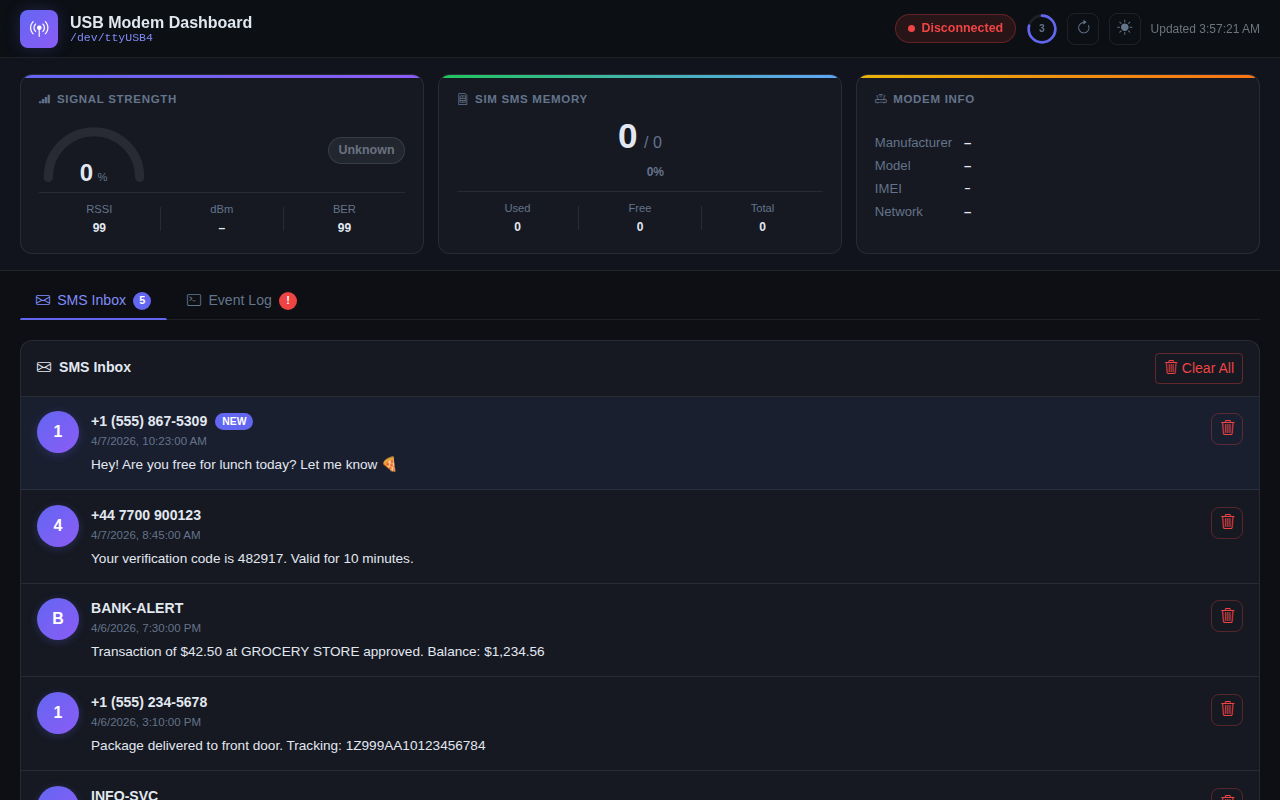
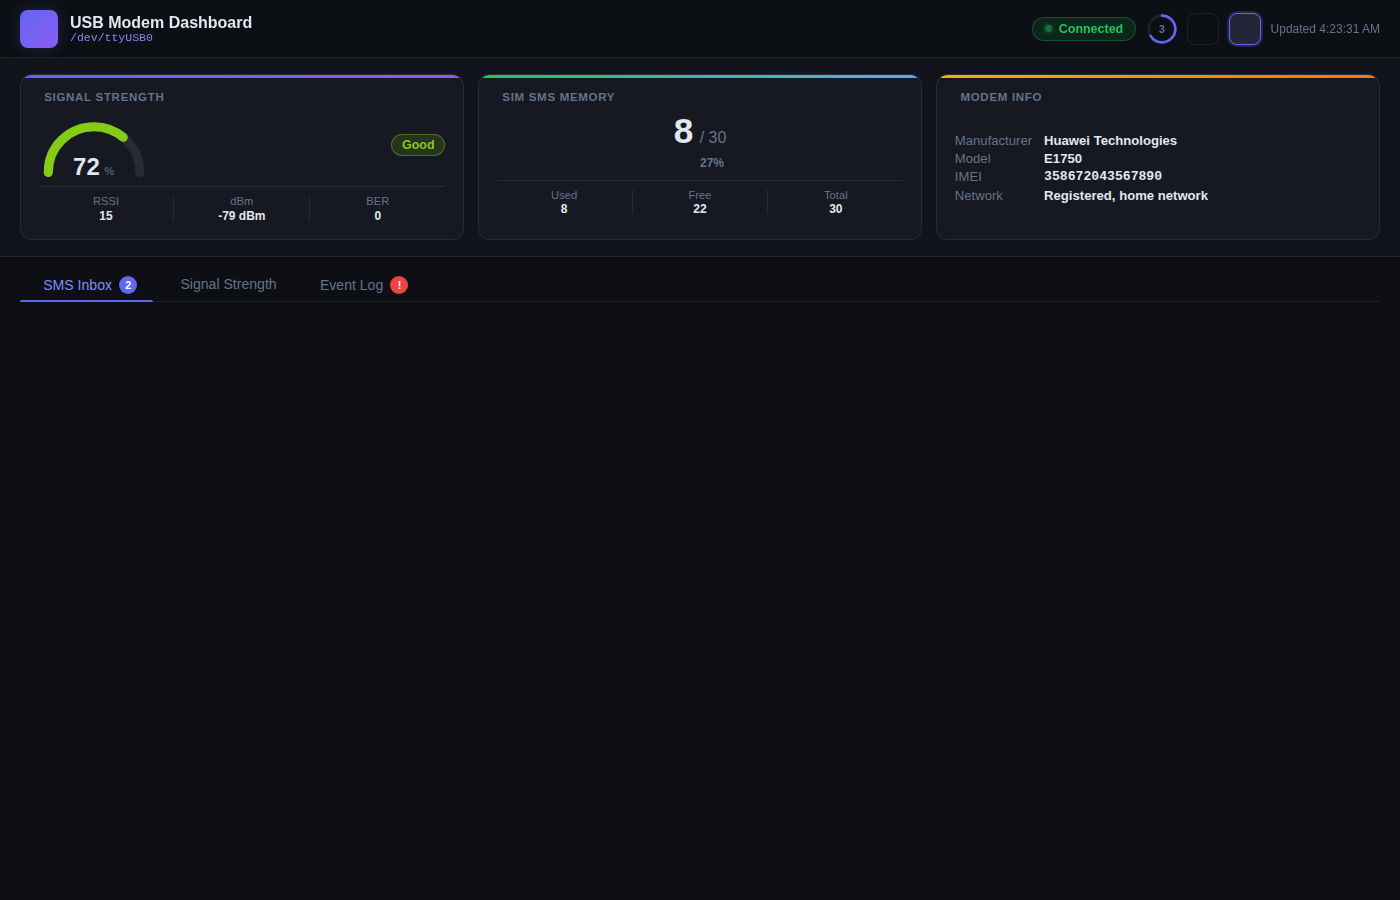
feat: add 30-min signal strength history graph in Signal Strength tab
Agent-Logs-Url: https://github.com/masterlog80/sms-frontend2-copilot/sessions/4dd0ab56-71c3-4b73-91a5-0e88833d4431

diff --git a/app/static/app.js b/app/static/app.js
@@ -265,6 +265,207 @@ async function clearLog() {
   } catch (err) { showToast('Network error: ' + err.message, 'danger'); }
 }
 
+/* ─── Signal history chart ───────────────────────────────────────────────── */
+const QUALITY_COLORS = {
+  excellent: '#22c55e',
+  good:      '#84cc16',
+  fair:      '#eab308',
+  poor:      '#f97316',
+  verypoor:  '#ef4444',
+  unknown:   '#6b7280',
+};
+
+function renderSignalChart(history) {
+  const canvas = document.getElementById('signalChart');
+  if (!canvas) return;
+
+  // Size the canvas to its CSS layout size
+  const dpr = window.devicePixelRatio || 1;
+  const rect = canvas.getBoundingClientRect();
+  const W = rect.width  || canvas.offsetWidth  || 600;
+  const H = rect.height || canvas.offsetHeight || 260;
+  canvas.width  = W * dpr;
+  canvas.height = H * dpr;
+  const ctx = canvas.getContext('2d');
+  ctx.scale(dpr, dpr);
+
+  // Detect theme
+  const isDark = document.documentElement.getAttribute('data-bs-theme') === 'dark';
+  const colorText    = isDark ? '#e2e8f0'  : '#0f172a';
+  const colorMuted   = isDark ? '#64748b'  : '#94a3b8';
+  const colorGrid    = isDark ? 'rgba(255,255,255,0.06)' : 'rgba(0,0,0,0.07)';
+  const colorAreaTop = isDark ? 'rgba(99,102,241,0.25)'  : 'rgba(99,102,241,0.15)';
+  const colorAreaBot = isDark ? 'rgba(99,102,241,0)'     : 'rgba(99,102,241,0)';
+  const colorLine    = '#6366f1';
+
+  // Layout
+  const PAD_L = 46, PAD_R = 16, PAD_T = 16, PAD_B = 36;
+  const plotW = W - PAD_L - PAD_R;
+  const plotH = H - PAD_T - PAD_B;
+
+  ctx.clearRect(0, 0, W, H);
+
+  // ── No data state ──
+  if (!history || history.length === 0) {
+    ctx.fillStyle = colorMuted;
+    ctx.font = '0.85rem sans-serif';
+    ctx.textAlign = 'center';
+    ctx.fillText('No signal history yet – data appears after the first poll.', W / 2, H / 2);
+    const meta = document.getElementById('sigHistoryMeta');
+    if (meta) meta.textContent = '';
+    return;
+  }
+
+  // Time window: last 30 min relative to newest point
+  const now = new Date(history[history.length - 1].timestamp).getTime();
+  const windowMs = 30 * 60 * 1000;
+  const tMin = now - windowMs;
+
+  // Helpers to map data -> canvas coords
+  const toX = t  => PAD_L + ((t - tMin) / windowMs) * plotW;
+  const toY = pct => PAD_T + plotH - (Math.max(0, Math.min(100, pct)) / 100) * plotH;
+
+  // ── Grid & Y-axis labels ──
+  ctx.save();
+  ctx.strokeStyle = colorGrid;
+  ctx.lineWidth   = 1;
+  ctx.fillStyle   = colorMuted;
+  ctx.font        = `11px -apple-system, BlinkMacSystemFont, "Segoe UI", sans-serif`;
+  ctx.textAlign   = 'right';
+  ctx.textBaseline = 'middle';
+  [0, 25, 50, 75, 100].forEach(pct => {
+    const y = toY(pct);
+    ctx.beginPath();
+    ctx.moveTo(PAD_L, y);
+    ctx.lineTo(PAD_L + plotW, y);
+    ctx.stroke();
+    ctx.fillText(pct + '%', PAD_L - 6, y);
+  });
+  ctx.restore();
+
+  // ── X-axis time labels (every 5 min) ──
+  ctx.save();
+  ctx.fillStyle    = colorMuted;
+  ctx.font         = `11px -apple-system, BlinkMacSystemFont, "Segoe UI", sans-serif`;
+  ctx.textAlign    = 'center';
+  ctx.textBaseline = 'top';
+  for (let minAgo = 30; minAgo >= 0; minAgo -= 5) {
+    const t = now - minAgo * 60 * 1000;
+    const x = toX(t);
+    if (x < PAD_L - 2 || x > PAD_L + plotW + 2) continue;
+    const label = minAgo === 0 ? 'now' : `-${minAgo}m`;
+    ctx.fillText(label, x, PAD_T + plotH + 6);
+  }
+  ctx.restore();
+
+  // ── Area fill (gradient) ──
+  const grad = ctx.createLinearGradient(0, PAD_T, 0, PAD_T + plotH);
+  grad.addColorStop(0, colorAreaTop);
+  grad.addColorStop(1, colorAreaBot);
+
+  ctx.save();
+  ctx.beginPath();
+  history.forEach((pt, i) => {
+    const x = toX(new Date(pt.timestamp).getTime());
+    const y = toY(pt.percent);
+    if (i === 0) ctx.moveTo(x, y); else ctx.lineTo(x, y);
+  });
+  // Close area down to baseline
+  ctx.lineTo(toX(new Date(history[history.length - 1].timestamp).getTime()), PAD_T + plotH);
+  ctx.lineTo(toX(new Date(history[0].timestamp).getTime()), PAD_T + plotH);
+  ctx.closePath();
+  ctx.fillStyle = grad;
+  ctx.fill();
+  ctx.restore();
+
+  // ── Line (coloured segments by quality) ──
+  ctx.save();
+  ctx.lineWidth   = 2.5;
+  ctx.lineJoin    = 'round';
+  ctx.lineCap     = 'round';
+  for (let i = 1; i < history.length; i++) {
+    const prev = history[i - 1];
+    const curr = history[i];
+    const qc   = qualityClass(curr.quality || '');
+    ctx.strokeStyle = QUALITY_COLORS[qc] || colorLine;
+    ctx.beginPath();
+    ctx.moveTo(toX(new Date(prev.timestamp).getTime()), toY(prev.percent));
+    ctx.lineTo(toX(new Date(curr.timestamp).getTime()), toY(curr.percent));
+    ctx.stroke();
+  }
+  ctx.restore();
+
+  // ── Dots at each sample ──
+  ctx.save();
+  history.forEach(pt => {
+    const qc = qualityClass(pt.quality || '');
+    ctx.fillStyle = QUALITY_COLORS[qc] || colorLine;
+    ctx.beginPath();
+    ctx.arc(
+      toX(new Date(pt.timestamp).getTime()),
+      toY(pt.percent),
+      history.length > 60 ? 1.5 : 3,
+      0, Math.PI * 2
+    );
+    ctx.fill();
+  });
+  ctx.restore();
+
+  // ── Latest value label ──
+  const latest = history[history.length - 1];
+  const lx = toX(new Date(latest.timestamp).getTime());
+  const ly = toY(latest.percent);
+  const qc = qualityClass(latest.quality || '');
+  ctx.save();
+  ctx.fillStyle = QUALITY_COLORS[qc] || colorLine;
+  ctx.font      = `bold 12px -apple-system, BlinkMacSystemFont, "Segoe UI", sans-serif`;
+  ctx.textAlign = lx > PAD_L + plotW - 50 ? 'right' : 'left';
+  ctx.textBaseline = ly < PAD_T + 20 ? 'top' : 'bottom';
+  const labelOffset = 8;
+  ctx.fillText(
+    `${latest.percent}%`,
+    lx + (ctx.textAlign === 'right' ? -labelOffset : labelOffset),
+    ly + (ctx.textBaseline === 'top' ? labelOffset : -labelOffset)
+  );
+  ctx.restore();
+
+  // ── Meta line ──
+  const meta = document.getElementById('sigHistoryMeta');
+  if (meta) {
+    meta.textContent = `${history.length} sample${history.length !== 1 ? 's' : ''}`;
+  }
+}
+
+async function fetchSignalHistory() {
+  try {
+    const r = await fetch(`${API}/api/signal/history`);
+    if (!r.ok) throw new Error(r.statusText);
+    const { history } = await r.json();
+    renderSignalChart(history || []);
+  } catch (err) { console.warn('fetchSignalHistory error:', err); }
+}
+
+// Re-draw chart on theme change
+btnTheme.addEventListener('click', () => {
+  fetchSignalHistory();
+});
+
+// Re-draw chart whenever the Signal Strength tab becomes visible
+document.addEventListener('DOMContentLoaded', () => {
+  const signalTabBtn = document.getElementById('tab-signal');
+  if (signalTabBtn) {
+    signalTabBtn.addEventListener('shown.bs.tab', fetchSignalHistory);
+  }
+});
+
+// Redraw on window resize (canvas needs explicit resizing)
+window.addEventListener('resize', () => {
+  const pane = document.getElementById('pane-signal');
+  if (pane && pane.classList.contains('show')) {
+    fetchSignalHistory();
+  }
+});
+
 /* ─── Data fetching ──────────────────────────────────────────────────────── */
 async function fetchStatus() {
   try {
@@ -293,7 +494,7 @@ async function fetchLogs() {
 }
 
 async function refreshAll() {
-  await Promise.all([fetchStatus(), fetchSms(), fetchLogs()]);
+  await Promise.all([fetchStatus(), fetchSms(), fetchLogs(), fetchSignalHistory()]);
 }
 
 /* ─── Countdown & auto-refresh ───────────────────────────────────────────── */

diff --git a/app/static/index.html b/app/static/index.html
@@ -164,6 +164,14 @@
       </button>
     </li>
     <li class="nav-item" role="presentation">
+      <button class="dash-tab-btn" id="tab-signal"
+              data-bs-toggle="tab" data-bs-target="#pane-signal"
+              type="button" role="tab">
+        <i class="bi bi-activity"></i>
+        <span>Signal Strength</span>
+      </button>
+    </li>
+    <li class="nav-item" role="presentation">
       <button class="dash-tab-btn" id="tab-log"
               data-bs-toggle="tab" data-bs-target="#pane-log"
               type="button" role="tab">
@@ -194,6 +202,19 @@
         </div>
       </div>
     </div><!-- /pane-sms -->
+
+    <!-- ── Signal Strength History ───────────────────────────────────── -->
+    <div class="tab-pane fade" id="pane-signal" role="tabpanel">
+      <div class="panel">
+        <div class="panel-hdr">
+          <span><i class="bi bi-activity me-2"></i>Signal Strength – Last 30 min</span>
+          <span class="panel-hdr-sub" id="sigHistoryMeta"></span>
+        </div>
+        <div class="signal-chart-wrap">
+          <canvas id="signalChart"></canvas>
+        </div>
+      </div>
+    </div><!-- /pane-signal -->
 
     <!-- ── Event Log ─────────────────────────────────────────────────── -->
     <div class="tab-pane fade" id="pane-log" role="tabpanel">

diff --git a/app/static/style.css b/app/static/style.css
@@ -544,6 +544,18 @@ code, .font-monospace { font-family: "SFMono-Regular", Consolas, "Liberation Mon
 .lf-btn:hover { border-color: var(--accent); color: var(--text); }
 .lf-btn.active { background: var(--accent); border-color: var(--accent); color: #fff; }
 
+/* ─── Signal history chart ──────────────────────────────────────────────── */
+.signal-chart-wrap {
+  padding: 1.25rem 1rem 1rem;
+}
+
+#signalChart {
+  display: block;
+  width: 100%;
+  height: 260px;
+  border-radius: var(--radius-sm);
+}
+
 /* ─── Empty state ───────────────────────────────────────────────────────── */
 .empty-state {
   display: flex;

diff --git a/app/main.py b/app/main.py
@@ -72,6 +72,9 @@ state = {
 }
 sms_list: list = []
 event_log: list = []
+# Rolling 30-minute signal history (in-memory only; up to 360 samples at 5 s)
+signal_history: list[dict] = []
+SIGNAL_HISTORY_SECONDS = 1800  # 30 minutes
 
 # ---------------------------------------------------------------------------
 # Data persistence helpers
@@ -215,11 +218,29 @@ def _do_poll():
         _append_log("INFO", f"Received {added} new SMS message(s)")
         _save_sms()
 
+    now = datetime.now(timezone.utc)
+    cutoff_ts = now.timestamp() - SIGNAL_HISTORY_SECONDS
+    history_entry = {
+        "timestamp": now.isoformat().replace("+00:00", "Z"),
+        "percent": signal.get("percent", 0),
+        "dbm": signal.get("dbm"),
+        "quality": signal.get("quality", "Unknown"),
+    }
+
     with _state_lock:
         state["signal"] = signal
         state["memory"] = memory
         state["modem_connected"] = modem.connected
-        state["last_updated"] = datetime.now(timezone.utc).isoformat().replace("+00:00", "Z")
+        state["last_updated"] = now.isoformat().replace("+00:00", "Z")
+        signal_history.append(history_entry)
+        # Discard entries older than 30 minutes
+        cutoff_iso = cutoff_ts
+        signal_history[:] = [
+            e for e in signal_history
+            if datetime.fromisoformat(
+                e["timestamp"].replace("Z", "+00:00")
+            ).timestamp() >= cutoff_iso
+        ]
 
     logger.debug("Poll OK — signal=%s memory=%s sms_on_sim=%d", signal, memory, len(new_sms))
 
@@ -309,6 +330,12 @@ def api_clear_logs():
         event_log = []
     _save_logs()
     return jsonify({"success": True})
+
+
+@app.route("/api/signal/history")
+def api_signal_history():
+    with _state_lock:
+        return jsonify({"history": list(signal_history)})
 
 
 @app.route("/api/refresh", methods=["POST"])

diff --git a/README.md b/README.md
@@ -4,7 +4,8 @@ A **Dockerised web dashboard** for the *HSDPA USB STICK SIM Modem 7.2 Mbps 3G Wi
 
 The dashboard connects to the modem over the host's `/dev/ttyUSB0` serial device, polls it every **5 seconds**, and presents:
 
-- 📶 **Signal strength** – RSSI, dBm, quality badge, animated bar
+- 📶 **Signal strength** – RSSI, dBm, quality badge, animated arc gauge
+- 📈 **Signal history graph** – rolling 30-minute line chart, colour-coded by quality
 - 💾 **SIM SMS Memory** – used / free / total slots, fill bar
 - 📱 **Modem Info** – manufacturer, model, IMEI, network registration status
 - 📨 **SMS Inbox** – all messages on the SIM, with per-message delete
@@ -23,6 +24,10 @@ reloaded automatically when the container restarts.
 
 ![USB Modem Dashboard – dark mode](screenshots/dashboard_dark.png)
 
+#### Signal Strength History (dark)
+
+![Signal Strength – 30-minute history graph with colour-coded quality line](screenshots/signal_strength_dark.png)
+
 #### Event Log (dark)
 
 ![Event Log – timestamped log entries with INFO, WARNING and ERROR levels and level filters](screenshots/event_log.png)
@@ -30,6 +35,10 @@ reloaded automatically when the container restarts.
 ### Light Mode
 
 ![USB Modem Dashboard – light mode](screenshots/dashboard_light.png)
+
+#### Signal Strength History (light)
+
+![Signal Strength – 30-minute history graph, light mode](screenshots/signal_strength_light.png)
 
 #### Event Log (light)
 
@@ -145,6 +154,7 @@ The Flask backend exposes the following endpoints (consumed by the UI):
 | Method | Path | Description |
 |---|---|---|
 | `GET` | `/api/status` | Signal, memory, modem info, connection state |
+| `GET` | `/api/signal/history` | Rolling 30-minute signal history (percent, dBm, quality) |
 | `GET` | `/api/sms` | All persisted SMS messages |
 | `DELETE` | `/api/sms/<n>` | Delete SMS at list position `n` |
 | `DELETE` | `/api/sms` | Delete **all** SMS messages |
